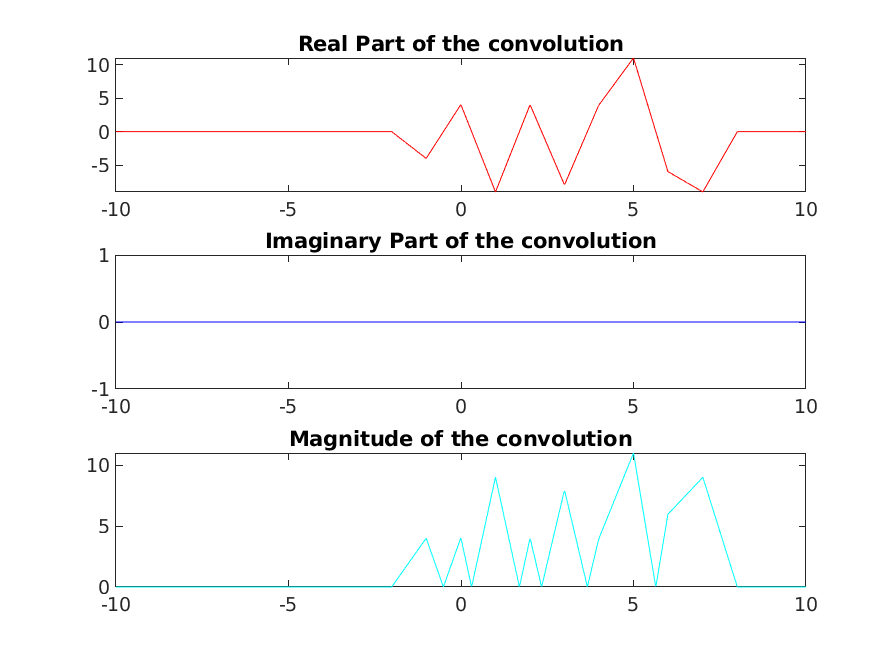
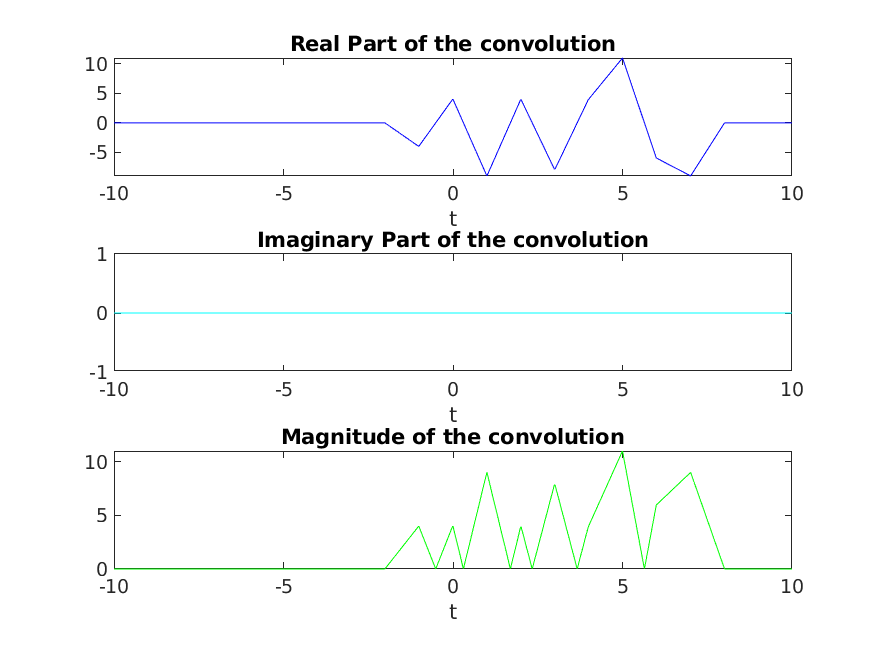
Finishing lab 2.0

diff --git a/Lab2_0/lab2_0.m b/Lab2_0/lab2_0.m
@@ -39,50 +39,43 @@ print('exercice_1','-dpng');            %Saving the plot
 %% CONVOLUTION %%
 
 dt = 0.01;                              %Sample spacing
-t1 = -4 : dt : 4;
-s1 = -2 : dt : -1;                      %Sampling times over [-2,-1]
-s2 = 1 : dt : 3;                        %Sampling times over [1,3]
-x1 = 3 * ((t1>=-2).*(t1<=-1));          %Given signal
-x2 = 4 * ((t1>=1).*(t1<=3));            %Given signal
+t = -4 : dt : 4;                        %Time vector
+x1 = 3 * ((t>=-2).*(t<=-1));            %Given signal
+x2 = 4 * ((t>=1).*(t<=3));              %Given signal
 
-
-[y,t]= contconv(x1,x2,t1(1),t1(1),dt);  %My function
-h = conv(x1, x2);                       %Built-in function
-h = h/100;                              %Scaling
+[y,x]= contconv(x1,x2,t(1),t(1),dt);    %My function
 
 figure(2);                              %Starting to plot
-subplot(2,1,1);                         %First plot
-plot(t, y, 'b'); axis tight;            %Exercice function
-title('Exercice function');             %Title
-subplot(2,1,2);                         %Second plot
-plot(h, 'r'); axis tight;               %Built-in function
-title('MatLab Built-in function');      %Title
+plot(x, y, 'b'); axis tight;            %Exercice function
+title('ContConv function');             %Title
+xlabel('t');                            %Title for the x-axis
 print('exercice_2','-dpng');            %Saving the plot
 
 %% MATCH FILTER %%
 
 dt = 0.01;                              %Sample spacing
 t = -5 : dt : 5;                        %Time vector
-s1 = 1 : dt : 3;                        %Sampling times over [1,3]
-s2 = 2 : dt : 4;                        %Sampling times over [2,4]
 
 u = 2 * ((t>=1).*(t<=3)) - 3 * ((t>=2).*(t<=4));	%Given signal
 w = conj(fliplr(u));                                %Match filter
 
 figure(3);                              %Starting to plot
 subplot(2,1,1);                         %First plot
-plot(t, u, 'r'); axis tight;            %Given signal
+plot(t, u, 'b'); axis tight;            %Given signal
 title('u(t))');                         %Title
+xlabel('t');                            %Title for the x-axis
 subplot(2,1,2);                         %Second plot
-plot(t, w, 'b'); axis tight;            %Match filter
+plot(t, w, 'c'); axis tight;            %Match filter
 title('u*(-t)');                        %Title
+xlabel('t');                            %Title for the x-axis
 print('exercice_3a','-dpng');           %Saving the plot
 
 [y,x]= contconv(u,w,t(1),t(1),dt);      %Convolution
 
 figure(4);                              %Starting to plot
-plot(x, y, 'b'); axis tight;            %Convolution
+plot(x, y, 'g'); axis tight;            %Convolution
 title('Convolution u(t) and u*(-t)');   %Title
+xlabel('t');                            %Title for the x-axis
 print('exercice_3b','-dpng');           %Saving the plot
 
 v = 2 * ((t>=-1).*(t<=2)) - 3 * ((t>=0).*(t<=1));	%Given signal
@@ -96,18 +89,22 @@ d_im = imag(d);                         %Imaginary part of the match filter
 
 figure(5);                              %Starting to plot
 subplot(2,2,1);                         %First plot
-plot(t, s_re, 'r'); axis tight;         %Re[s(t)]
-title('Real Part of s(t)');             %Title           
+plot(t, s_re, 'b'); axis tight;         %Re[s(t)]
+title('Real Part of s(t)');             %Title  
+xlabel('t');                            %Title for the x-axis
 subplot(2,2,2);                         %Second plot
-plot(t, d_re, 'b'); axis tight;         %Re[s*(-t)]
-title('Real Part of s*(-t)');           %Title           
+plot(t, d_re, 'c'); axis tight;         %Re[s*(-t)]
+title('Real Part of s*(-t)');           %Title       
+xlabel('t');                            %Title for the x-axis
 subplot(2,2,3);                         %Third plot
-plot(t, s_im, 'r'); axis tight;         %Im[s(t)]
+plot(t, s_im, 'g'); axis tight;         %Im[s(t)]
 title('Imaginary Part of s(t)');        %Title 
+xlabel('t');                            %Title for the x-axis
 subplot(2,2,4);                         %Fourth plot
-plot(t, d_im, 'b'); axis tight;         %Im[s*(-t)]
+plot(t, d_im, 'y'); axis tight;         %Im[s*(-t)]
 title('Imaginary Part of s*(-t)');      %Title 
-print('exercice_3c','-dpng');           %Saving the plot
+xlabel('t');                            %Title for the x-axis
+print('exercice_3c','-dpng');          %Saving the plot
 
 [r,f]= contconv(s,d,t(1),t(1),dt);      %Convolution
 
@@ -117,13 +114,16 @@ r_ma = abs(r);                          %Magnitude of the convolution
 
 figure(6);                                  %Starting to plot
 subplot(3,1,1);                             %First plot
-plot(f, r_re, 'r'); axis tight;             %Re[s(t)]
-title('Real Part of the convolution');      %Title           
+plot(f, r_re, 'b'); axis tight;             %Re[s(t)]
+title('Real Part of the convolution');      %Title 
+xlabel('t');                                %Title for the x-axis
 subplot(3,1,2);                             %First plot
-plot(f, r_im, 'b'); axis tight;             %Re[s*(-t)]
-title('Imaginary Part of the convolution'); %Title         
+plot(f, r_im, 'c'); axis tight;             %Re[s*(-t)]
+title('Imaginary Part of the convolution'); %Title    
+xlabel('t');                                %Title for the x-axis
 subplot(3,1,3);                             %First plot
-plot(f, r_ma, 'c'); axis tight;             %Im[s(t)]
+plot(f, r_ma, 'g'); axis tight;             %Im[s(t)]
+xlabel('t');                                %Title for the x-axis
 title('Magnitude of the convolution');      %Title  
 print('exercice_3d','-dpng');               %Saving the plot
 
@@ -139,37 +139,93 @@ g_ma = abs(g);                          %Magnitude of the convolution
 
 figure(7);                                  %Starting to plot
 subplot(3,1,1);                             %First plot
-plot(h, g_re, 'r'); axis tight;             %Re[s(t)]
-title('Real Part of the convolution');      %Title           
-subplot(3,1,2);                             %First plot
-plot(h, g_im, 'b'); axis tight;             %Re[s*(-t)]
-title('Imaginary Part of the convolution'); %Title         
-subplot(3,1,3);                             %First plot
-plot(h, g_ma, 'c'); axis tight;             %Im[s(t)]
+plot(h, g_re, 'b'); axis tight;             %Re[s(t)]
+title('Real Part of the convolution');      %Title      
+xlabel('t');                                %Title for the x-axis
+subplot(3,1,2);                             %Second plot
+plot(h, g_im, 'c'); axis tight;             %Re[s*(-t)]
+title('Imaginary Part of the convolution'); %Title      
+xlabel('t');                                %Title for the x-axis
+subplot(3,1,3);                             %Third plot
+plot(h, g_ma, 'g'); axis tight;             %Im[s(t)]
 title('Magnitude of the convolution');      %Title  
+xlabel('t');                                %Title for the x-axis
 print('exercice_3e','-dpng');               %Saving the plot
 
 %% FOURIER TRANSFORM %%
 
-dt = 1/16000;                           %Sample spacing
-df_i = 1;                               %Desired frequency resolution
-t = -8 : dt : 8;                        %Time vector
-s = 3 * sinc(2*t - 3);                  %Input signal
-[X, f, df] = contFT(s,t(1),dt,df_i);    %Given funtion
+dt = 1/(16e6);                          %Sample spacing
+df_i = 1e3;                             %Desired frequency resolution
+t = -8e-6 : dt : 8e-6;                  %Time vector
+s = 3 * sinc(2*t*1e6 - 3);              %Input signal
+[X, f, ~] = contFT(s,t(1),dt,df_i);     %Given funtion
 X_ma = abs(X);                          %Magnitude of the FT
+X_ph = angle(X);                        %Phase of the FT
 
 figure(8);                              %Starting to plot
-plot(f, X_ma, 'r'); axis tight;         %Starting to plot
+plot(f, X_ma, 'b'); axis tight;         %Starting to plot
 title('Magnitude of the FT');           %Title           
+xlabel('f');                            %Title for the x-axis
 print('exercice_4a','-dpng');           %Saving the plot
 
-figure(9);                                      %Starting to plot
-plot(f, X_ma, 'r'); xlim([-5,5]);               %Starting to plot
-title('Close-up of the magnitud of the FT');    %Title           
-print('exercice_4a2','-dpng');                  %Saving the plot
+figure(9);                              %Starting to plot
+plot(f, X_ph, 'c'); axis tight;         %Starting to plot
+title('Phase of the FT');               %Title           
+xlabel('f');                            %Title for the x-axis
+print('exercice_4b','-dpng');           %Saving the plot
 
-figure(10);                                     %Starting to plot
-plot(f, X_ma, 'r'); xlim([-1.1,1.1]);           %Starting to plot
-title('Close-up of the magnitud of the FT');    %Title           
-print('exercice_4a3','-dpng');                  %Saving the plot
+%% MATCHED FILTER IN FREQUENCY DOMAIN %%
 
+dt = 0.001;                             %Sample spacing
+df_i = 1;                               %Desired frequency resolution
+t = -5 : dt : 5;                  %Time vector
+
+u = 2 * ((t>=1).*(t<=3)) - 3 * ((t>=2).*(t<=4));	%Given signal
+v = 2 * ((t>=-1).*(t<=2)) - 3 * ((t>=0).*(t<=1));	%Given signal
+s = u + 1i*v;                                       %Total signal
+
+[X, f, df] = contFT(s,t(1),dt,df_i);    %Given funtion
+X_ma = abs(X);                          %Magnitude of the FT
+X_ph = angle(X);                        %Phase of the FT
+
+figure(10);                             %Starting to plot
+plot(f, X_ma, 'b'); axis tight;         %Starting to plot
+title('Magnitude of the FT');           %Title           
+xlabel('f');                            %Title for the x-axis
+print('exercice_5a','-dpng');           %Saving the plot
+
+figure(11);                             %Starting to plot
+plot(f, X_ma, 'c'); xlim([-20,20]);     %Starting to plot
+title('Magnitude of the FT');           %Title           
+xlabel('f');                            %Title for the x-axis
+print('exercice_5a','-dpng');           %Saving the plot
+
+figure(12);                             %Starting to plot
+plot(f, X_ph, 'g'); axis tight;         %Starting to plot
+title('Phase of the FT');               %Title           
+xlabel('f');                            %Title for the x-axis
+print('exercice_5a2','-dpng');          %Saving the plot
+
+g = -conj(s);                           %Match filter
+[h,y]= contconv(s,g,t(1),t(1),dt);      %Convolution
+[H,k,~] = contFT(h,t(1),dt,df_i);       %Given funtion
+H_ma = abs(H);                          %Magnitude of the FT
+H_ph = angle(H);                        %Phase of the FT
+X2 = X_ma.^2;                           %Magnitude square of X
+
+figure(13);                                         %Starting to plot
+subplot(2,1,1);                                     %First plot
+plot(k, H_ma, 'g'); axis tight;                     %Plot
+title('Magnitude of the FT of the convolution');    %Title           
+xlabel('f');                                        %Title for the x-axis
+subplot(2,1,2);                                     %Second plot
+plot(f, X2, 'c'); axis tight;                       %Plot
+title('Magnitude square of the FT');                %Title           
+xlabel('f');                                        %Title for the x-axis
+print('exercice_5b','-dpng');                       %Saving the plot
+
+figure(14);                                         %Starting to plot
+plot(k, H_ph, 'g'); axis tight;                     %Starting to plot
+title('Phase of the FT of the convolution');        %Title           
+xlabel('f');                                        %Title for the x-axis
+print('exercice_5c','-dpng');                       %Saving the plot
